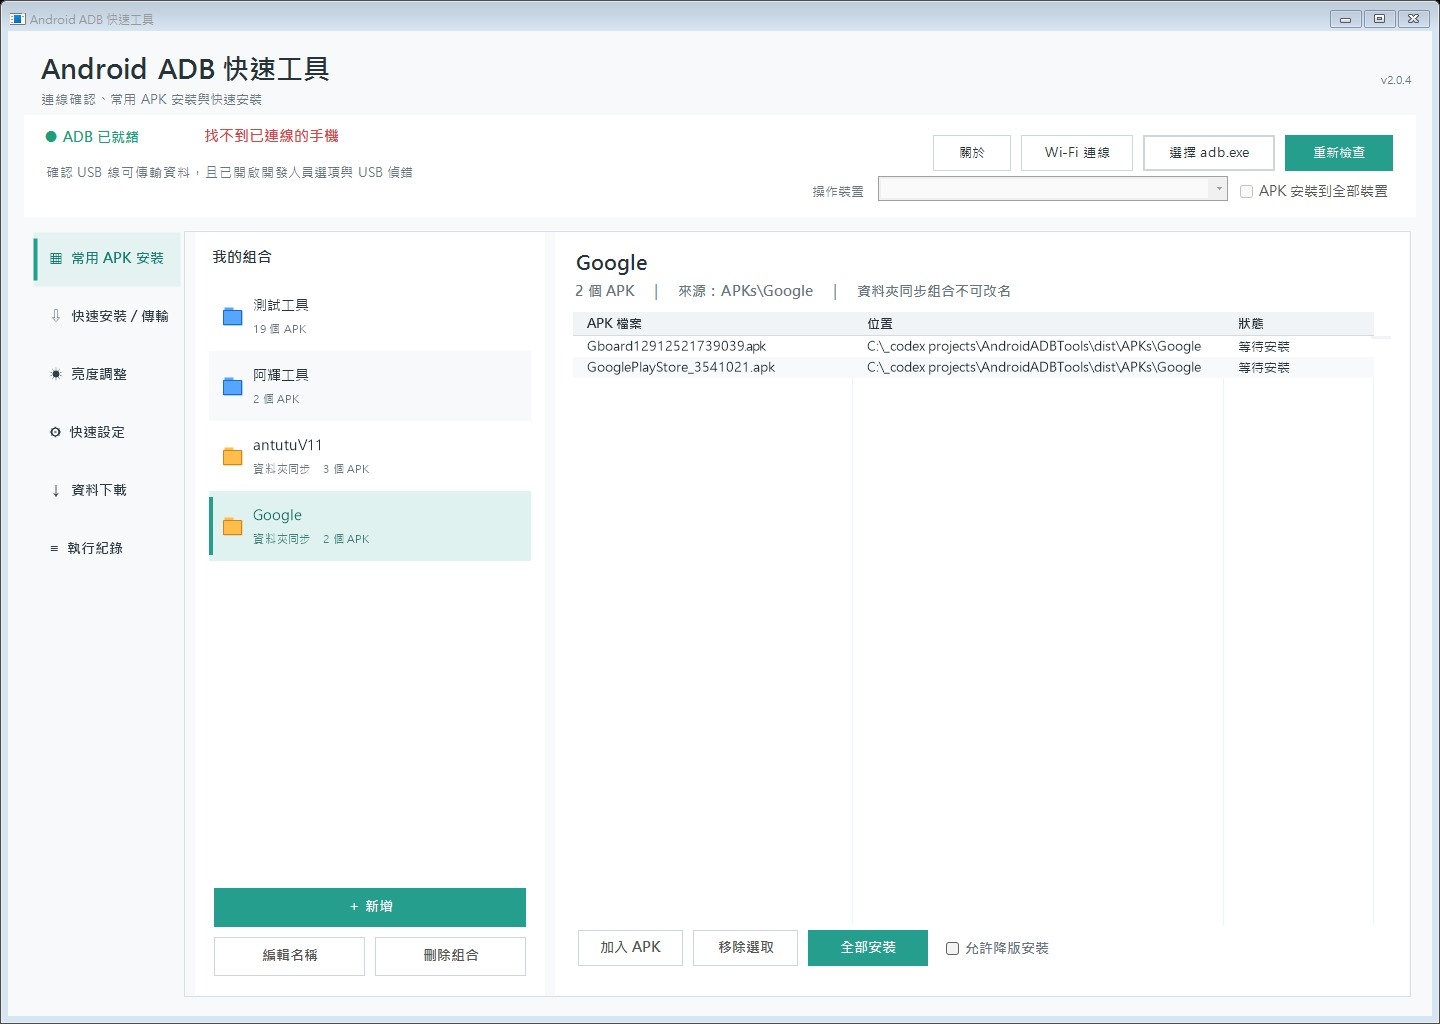
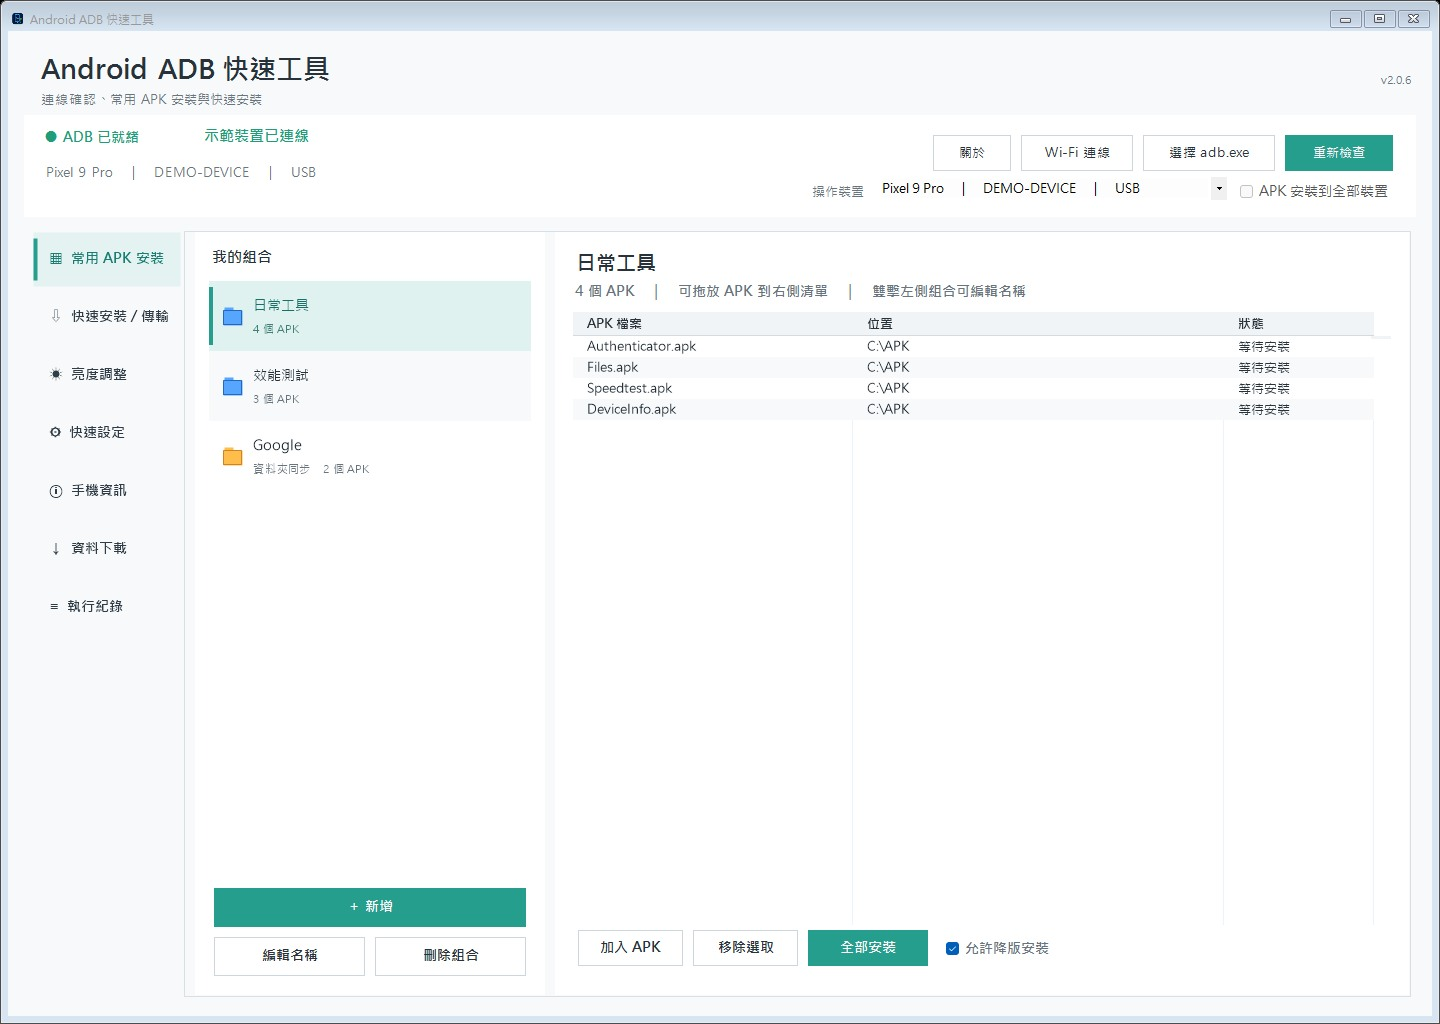
Refresh GitHub documentation and v2.0.6 screenshots

diff --git a/README.md b/README.md
@@ -8,6 +8,8 @@
 
 <p align="center">
   <a href="LICENSE"><img src="https://img.shields.io/badge/License-AGPL_v3-blue.svg" alt="GNU AGPL v3"></a>
+  <a href="https://github.com/ahui3c/AndroidADBTools/releases/latest"><img src="https://img.shields.io/github/v/release/ahui3c/AndroidADBTools?label=最新版" alt="最新版本"></a>
+  <a href="https://github.com/ahui3c/AndroidADBTools/releases/latest"><img src="https://img.shields.io/github/downloads/ahui3c/AndroidADBTools/total?label=下載" alt="GitHub 下載次數"></a>
 </p>
 
 一套可使用免安裝可攜式版本或完整安裝版的 Windows 圖形化 ADB 工具，協助使用者快速確認 Android 裝置連線、批次安裝 APK、調整常用系統設定、擷取畫面與備份手機相片資料。
@@ -15,6 +17,8 @@
 目前版本：**v2.0.6**
 
 [查看完整更新紀錄](CHANGELOG.md)
+
+> v2.0.6 同時提供標準可攜式版、內含 ADB 與 ArgyllCMS `spotread` 的 Complete 可攜式版，以及支援 UAC、捷徑與解除安裝的 Complete 完整安裝版。程式也能從「關於」頁面一鍵更新到最新公開版本。
 
 ## 主要功能
 
@@ -26,6 +30,7 @@
 - 手機資訊支援一鍵複製完整摘要、雙擊複製單項內容，以及匯出 UTF-8 文字檔、Excel `.xlsx` 或 JSON；Excel 匯出不需要預先安裝 Microsoft Excel。Android 未公開的規格會明確標示而不使用推測值。
 - 手機資訊讀取後會依裝置識別保存本機快取；同一台手機再次連接或在多台手機之間切換時會自動帶入，並可強制更新或只清除目前手機的快取。
 - 「關於」頁面提供一鍵線上更新：自動下載並驗證 GitHub 最新公開版本、替換目前程式後重新啟動；安裝位置需要系統管理員權限時會顯示 Windows UAC 授權畫面。
+- 可選擇免安裝可攜式版本，或使用內含 ADB、`spotread.exe`、開始功能表捷徑與解除安裝功能的 Complete 安裝版。
 - 建立多組「常用 APK 安裝」清單，一鍵依序安裝並顯示每個 APK 的結果。
 - APK 清單欄位過長時，可將滑鼠移到項目上查看完整檔名與完整位置。
 - 「我的組合」支援拖曳排序；自訂組合可雙擊直接編輯名稱，排序會自動保存。
@@ -46,15 +51,19 @@
 
 <table>
   <tr>
-    <td colspan="2"><img src="docs/screenshots/01-apk-batch-install.jpg" alt="常用 APK 批次安裝"><br><sub>常用 APK 組合與批次安裝</sub></td>
+    <td colspan="2"><img src="docs/screenshots/01-apk-batch-install.jpg" alt="常用 APK 組合與批次安裝"><br><sub>常用 APK 組合、自建／資料夾同步分類與批次安裝</sub></td>
   </tr>
   <tr>
-    <td width="50%"><img src="docs/screenshots/02-quick-install-transfer.jpg" alt="快速安裝 APK 與傳輸資料"><br><sub>拖放 APK、檔案與資料夾</sub></td>
-    <td width="50%"><img src="docs/screenshots/03-brightness-adjustment.jpg" alt="手動與全自動調整設備亮度"><br><sub>手動與全自動調整設備亮度</sub></td>
+    <td width="50%"><img src="docs/screenshots/02-quick-install-transfer.jpg" alt="快速安裝 APK 與傳輸資料"><br><sub>拖放 APK、檔案與資料夾，並選擇手機目的地</sub></td>
+    <td width="50%"><img src="docs/screenshots/03-brightness-adjustment.jpg" alt="手動與全自動調整設備亮度"><br><sub>手動亮度控制與 ArgyllCMS 實測自動調整</sub></td>
   </tr>
   <tr>
-    <td width="50%"><img src="docs/screenshots/04-quick-settings.jpg" alt="設備常用設定"><br><sub>亮度、螢幕、音量、網址與截圖設定</sub></td>
-    <td width="50%"><img src="docs/screenshots/05-data-backup.jpg" alt="設備圖片影音資料備份"><br><sub>下載並備份手機圖片與影音資料</sub></td>
+    <td width="50%"><img src="docs/screenshots/04-quick-settings.jpg" alt="設備常用設定"><br><sub>顯示、音量、網址與截圖到剪貼簿</sub></td>
+    <td width="50%"><img src="docs/screenshots/05-device-information.jpg" alt="手機詳細資訊"><br><sub>手機硬體與系統資訊、快取、複製及匯出</sub></td>
+  </tr>
+  <tr>
+    <td width="50%"><img src="docs/screenshots/06-data-backup.jpg" alt="下載並備份手機圖片與影音資料"><br><sub>ZIP／原始資料夾下載與分手機增量時間紀錄</sub></td>
+    <td width="50%"><img src="docs/screenshots/07-about-online-update.jpg" alt="關於與線上更新"><br><sub>關於頁面的一鍵線上更新</sub></td>
   </tr>
 </table>
 

diff --git a/dist/README.md b/dist/README.md
@@ -8,6 +8,8 @@
 
 <p align="center">
   <a href="LICENSE"><img src="https://img.shields.io/badge/License-AGPL_v3-blue.svg" alt="GNU AGPL v3"></a>
+  <a href="https://github.com/ahui3c/AndroidADBTools/releases/latest"><img src="https://img.shields.io/github/v/release/ahui3c/AndroidADBTools?label=最新版" alt="最新版本"></a>
+  <a href="https://github.com/ahui3c/AndroidADBTools/releases/latest"><img src="https://img.shields.io/github/downloads/ahui3c/AndroidADBTools/total?label=下載" alt="GitHub 下載次數"></a>
 </p>
 
 一套可使用免安裝可攜式版本或完整安裝版的 Windows 圖形化 ADB 工具，協助使用者快速確認 Android 裝置連線、批次安裝 APK、調整常用系統設定、擷取畫面與備份手機相片資料。
@@ -15,6 +17,8 @@
 目前版本：**v2.0.6**
 
 [查看完整更新紀錄](CHANGELOG.md)
+
+> v2.0.6 同時提供標準可攜式版、內含 ADB 與 ArgyllCMS `spotread` 的 Complete 可攜式版，以及支援 UAC、捷徑與解除安裝的 Complete 完整安裝版。程式也能從「關於」頁面一鍵更新到最新公開版本。
 
 ## 主要功能
 
@@ -26,6 +30,7 @@
 - 手機資訊支援一鍵複製完整摘要、雙擊複製單項內容，以及匯出 UTF-8 文字檔、Excel `.xlsx` 或 JSON；Excel 匯出不需要預先安裝 Microsoft Excel。Android 未公開的規格會明確標示而不使用推測值。
 - 手機資訊讀取後會依裝置識別保存本機快取；同一台手機再次連接或在多台手機之間切換時會自動帶入，並可強制更新或只清除目前手機的快取。
 - 「關於」頁面提供一鍵線上更新：自動下載並驗證 GitHub 最新公開版本、替換目前程式後重新啟動；安裝位置需要系統管理員權限時會顯示 Windows UAC 授權畫面。
+- 可選擇免安裝可攜式版本，或使用內含 ADB、`spotread.exe`、開始功能表捷徑與解除安裝功能的 Complete 安裝版。
 - 建立多組「常用 APK 安裝」清單，一鍵依序安裝並顯示每個 APK 的結果。
 - APK 清單欄位過長時，可將滑鼠移到項目上查看完整檔名與完整位置。
 - 「我的組合」支援拖曳排序；自訂組合可雙擊直接編輯名稱，排序會自動保存。
@@ -46,15 +51,19 @@
 
 <table>
   <tr>
-    <td colspan="2"><img src="docs/screenshots/01-apk-batch-install.jpg" alt="常用 APK 批次安裝"><br><sub>常用 APK 組合與批次安裝</sub></td>
+    <td colspan="2"><img src="docs/screenshots/01-apk-batch-install.jpg" alt="常用 APK 組合與批次安裝"><br><sub>常用 APK 組合、自建／資料夾同步分類與批次安裝</sub></td>
   </tr>
   <tr>
-    <td width="50%"><img src="docs/screenshots/02-quick-install-transfer.jpg" alt="快速安裝 APK 與傳輸資料"><br><sub>拖放 APK、檔案與資料夾</sub></td>
-    <td width="50%"><img src="docs/screenshots/03-brightness-adjustment.jpg" alt="手動與全自動調整設備亮度"><br><sub>手動與全自動調整設備亮度</sub></td>
+    <td width="50%"><img src="docs/screenshots/02-quick-install-transfer.jpg" alt="快速安裝 APK 與傳輸資料"><br><sub>拖放 APK、檔案與資料夾，並選擇手機目的地</sub></td>
+    <td width="50%"><img src="docs/screenshots/03-brightness-adjustment.jpg" alt="手動與全自動調整設備亮度"><br><sub>手動亮度控制與 ArgyllCMS 實測自動調整</sub></td>
   </tr>
   <tr>
-    <td width="50%"><img src="docs/screenshots/04-quick-settings.jpg" alt="設備常用設定"><br><sub>亮度、螢幕、音量、網址與截圖設定</sub></td>
-    <td width="50%"><img src="docs/screenshots/05-data-backup.jpg" alt="設備圖片影音資料備份"><br><sub>下載並備份手機圖片與影音資料</sub></td>
+    <td width="50%"><img src="docs/screenshots/04-quick-settings.jpg" alt="設備常用設定"><br><sub>顯示、音量、網址與截圖到剪貼簿</sub></td>
+    <td width="50%"><img src="docs/screenshots/05-device-information.jpg" alt="手機詳細資訊"><br><sub>手機硬體與系統資訊、快取、複製及匯出</sub></td>
+  </tr>
+  <tr>
+    <td width="50%"><img src="docs/screenshots/06-data-backup.jpg" alt="下載並備份手機圖片與影音資料"><br><sub>ZIP／原始資料夾下載與分手機增量時間紀錄</sub></td>
+    <td width="50%"><img src="docs/screenshots/07-about-online-update.jpg" alt="關於與線上更新"><br><sub>關於頁面的一鍵線上更新</sub></td>
   </tr>
 </table>
 

diff --git a/README.en.md b/README.en.md
@@ -8,6 +8,8 @@
 
 <p align="center">
   <a href="LICENSE"><img src="https://img.shields.io/badge/License-AGPL_v3-blue.svg" alt="GNU AGPL v3"></a>
+  <a href="https://github.com/ahui3c/AndroidADBTools/releases/latest"><img src="https://img.shields.io/github/v/release/ahui3c/AndroidADBTools?label=release" alt="Latest release"></a>
+  <a href="https://github.com/ahui3c/AndroidADBTools/releases/latest"><img src="https://img.shields.io/github/downloads/ahui3c/AndroidADBTools/total?label=downloads" alt="GitHub downloads"></a>
 </p>
 
 A Windows GUI for ADB, available as portable packages or a complete installer, that helps users verify Android device connections, install APKs in batches, adjust common device settings, capture screenshots, and back up phone photos.
@@ -16,9 +18,12 @@ Current version: **v2.0.6**
 
 [View the complete changelog](CHANGELOG.md)
 
+> v2.0.6 is available as a standard portable package, a Complete portable package with ADB and ArgyllCMS `spotread`, and a Complete installer with UAC, shortcuts, and uninstallation support. The About dialog can also update the application to the latest public release in one click.
+
 ## Features
 
 - The About dialog includes one-click online updates. It downloads and verifies the latest public GitHub Release, replaces the current executable, and restarts the app automatically; Windows displays a UAC prompt when the install location requires administrator permission.
+- Choose a portable package, or use the Complete installer with bundled ADB, `spotread.exe`, Start menu shortcuts, and uninstallation support.
 
 - Detects `adb.exe` and reports connected, offline, and unauthorized devices.
 - Includes a Wi-Fi debugging manager for pairing, connecting, and disconnecting with the phone IP, pairing port, six-digit code, and debugging port.
@@ -47,15 +52,19 @@ Current version: **v2.0.6**
 
 <table>
   <tr>
-    <td colspan="2"><img src="docs/screenshots/01-apk-batch-install.jpg" alt="Reusable APK groups and batch installation"><br><sub>Reusable APK groups and batch installation</sub></td>
+    <td colspan="2"><img src="docs/screenshots/01-apk-batch-install.jpg" alt="Reusable APK groups and batch installation"><br><sub>Custom and folder-synchronized APK groups with batch installation</sub></td>
   </tr>
   <tr>
-    <td width="50%"><img src="docs/screenshots/02-quick-install-transfer.jpg" alt="Quick APK installation and file transfer"><br><sub>Drag and drop APKs, files, and folders</sub></td>
-    <td width="50%"><img src="docs/screenshots/03-brightness-adjustment.jpg" alt="Manual and automatic device brightness adjustment"><br><sub>Manual and automatic device brightness adjustment</sub></td>
+    <td width="50%"><img src="docs/screenshots/02-quick-install-transfer.jpg" alt="Quick APK installation and file transfer"><br><sub>Drag APKs, files, or folders and select the phone destination</sub></td>
+    <td width="50%"><img src="docs/screenshots/03-brightness-adjustment.jpg" alt="Manual and automatic device brightness adjustment"><br><sub>Manual controls and ArgyllCMS measured automatic adjustment</sub></td>
   </tr>
   <tr>
-    <td width="50%"><img src="docs/screenshots/04-quick-settings.jpg" alt="Common device settings"><br><sub>Brightness, display, volume, URL, and screenshot controls</sub></td>
-    <td width="50%"><img src="docs/screenshots/05-data-backup.jpg" alt="Phone photo and video backup"><br><sub>Download and back up phone photos and videos</sub></td>
+    <td width="50%"><img src="docs/screenshots/04-quick-settings.jpg" alt="Common device settings"><br><sub>Display, volume, URL, and clipboard screenshot controls</sub></td>
+    <td width="50%"><img src="docs/screenshots/05-device-information.jpg" alt="Detailed phone information"><br><sub>Hardware and system details with cache, copy, and export</sub></td>
+  </tr>
+  <tr>
+    <td width="50%"><img src="docs/screenshots/06-data-backup.jpg" alt="Phone photo and video backup"><br><sub>ZIP or folder backup with per-device incremental checkpoints</sub></td>
+    <td width="50%"><img src="docs/screenshots/07-about-online-update.jpg" alt="About and online update"><br><sub>One-click online update from the About dialog</sub></td>
   </tr>
 </table>
 

diff --git a/dist/README.en.md b/dist/README.en.md
@@ -8,6 +8,8 @@
 
 <p align="center">
   <a href="LICENSE"><img src="https://img.shields.io/badge/License-AGPL_v3-blue.svg" alt="GNU AGPL v3"></a>
+  <a href="https://github.com/ahui3c/AndroidADBTools/releases/latest"><img src="https://img.shields.io/github/v/release/ahui3c/AndroidADBTools?label=release" alt="Latest release"></a>
+  <a href="https://github.com/ahui3c/AndroidADBTools/releases/latest"><img src="https://img.shields.io/github/downloads/ahui3c/AndroidADBTools/total?label=downloads" alt="GitHub downloads"></a>
 </p>
 
 A Windows GUI for ADB, available as portable packages or a complete installer, that helps users verify Android device connections, install APKs in batches, adjust common device settings, capture screenshots, and back up phone photos.
@@ -16,9 +18,12 @@ Current version: **v2.0.6**
 
 [View the complete changelog](CHANGELOG.md)
 
+> v2.0.6 is available as a standard portable package, a Complete portable package with ADB and ArgyllCMS `spotread`, and a Complete installer with UAC, shortcuts, and uninstallation support. The About dialog can also update the application to the latest public release in one click.
+
 ## Features
 
 - The About dialog includes one-click online updates. It downloads and verifies the latest public GitHub Release, replaces the current executable, and restarts the app automatically; Windows displays a UAC prompt when the install location requires administrator permission.
+- Choose a portable package, or use the Complete installer with bundled ADB, `spotread.exe`, Start menu shortcuts, and uninstallation support.
 
 - Detects `adb.exe` and reports connected, offline, and unauthorized devices.
 - Includes a Wi-Fi debugging manager for pairing, connecting, and disconnecting with the phone IP, pairing port, six-digit code, and debugging port.
@@ -47,15 +52,19 @@ Current version: **v2.0.6**
 
 <table>
   <tr>
-    <td colspan="2"><img src="docs/screenshots/01-apk-batch-install.jpg" alt="Reusable APK groups and batch installation"><br><sub>Reusable APK groups and batch installation</sub></td>
+    <td colspan="2"><img src="docs/screenshots/01-apk-batch-install.jpg" alt="Reusable APK groups and batch installation"><br><sub>Custom and folder-synchronized APK groups with batch installation</sub></td>
   </tr>
   <tr>
-    <td width="50%"><img src="docs/screenshots/02-quick-install-transfer.jpg" alt="Quick APK installation and file transfer"><br><sub>Drag and drop APKs, files, and folders</sub></td>
-    <td width="50%"><img src="docs/screenshots/03-brightness-adjustment.jpg" alt="Manual and automatic device brightness adjustment"><br><sub>Manual and automatic device brightness adjustment</sub></td>
+    <td width="50%"><img src="docs/screenshots/02-quick-install-transfer.jpg" alt="Quick APK installation and file transfer"><br><sub>Drag APKs, files, or folders and select the phone destination</sub></td>
+    <td width="50%"><img src="docs/screenshots/03-brightness-adjustment.jpg" alt="Manual and automatic device brightness adjustment"><br><sub>Manual controls and ArgyllCMS measured automatic adjustment</sub></td>
   </tr>
   <tr>
-    <td width="50%"><img src="docs/screenshots/04-quick-settings.jpg" alt="Common device settings"><br><sub>Brightness, display, volume, URL, and screenshot controls</sub></td>
-    <td width="50%"><img src="docs/screenshots/05-data-backup.jpg" alt="Phone photo and video backup"><br><sub>Download and back up phone photos and videos</sub></td>
+    <td width="50%"><img src="docs/screenshots/04-quick-settings.jpg" alt="Common device settings"><br><sub>Display, volume, URL, and clipboard screenshot controls</sub></td>
+    <td width="50%"><img src="docs/screenshots/05-device-information.jpg" alt="Detailed phone information"><br><sub>Hardware and system details with cache, copy, and export</sub></td>
+  </tr>
+  <tr>
+    <td width="50%"><img src="docs/screenshots/06-data-backup.jpg" alt="Phone photo and video backup"><br><sub>ZIP or folder backup with per-device incremental checkpoints</sub></td>
+    <td width="50%"><img src="docs/screenshots/07-about-online-update.jpg" alt="About and online update"><br><sub>One-click online update from the About dialog</sub></td>
   </tr>
 </table>
 

diff --git a/CHANGELOG.md b/CHANGELOG.md
@@ -4,6 +4,11 @@
 
 ## [尚未發行]
 
+### 文件
+
+- 更新 GitHub 首頁的版本摘要、下載形式、功能說明與狀態徽章。
+- 重新擷取 v2.0.6 淺色介面的七張軟體畫面，補上手機資訊、資料下載與關於／線上更新頁面。
+
 ## [2.0.6] - 2026-08-14
 
 ### 自動更新
